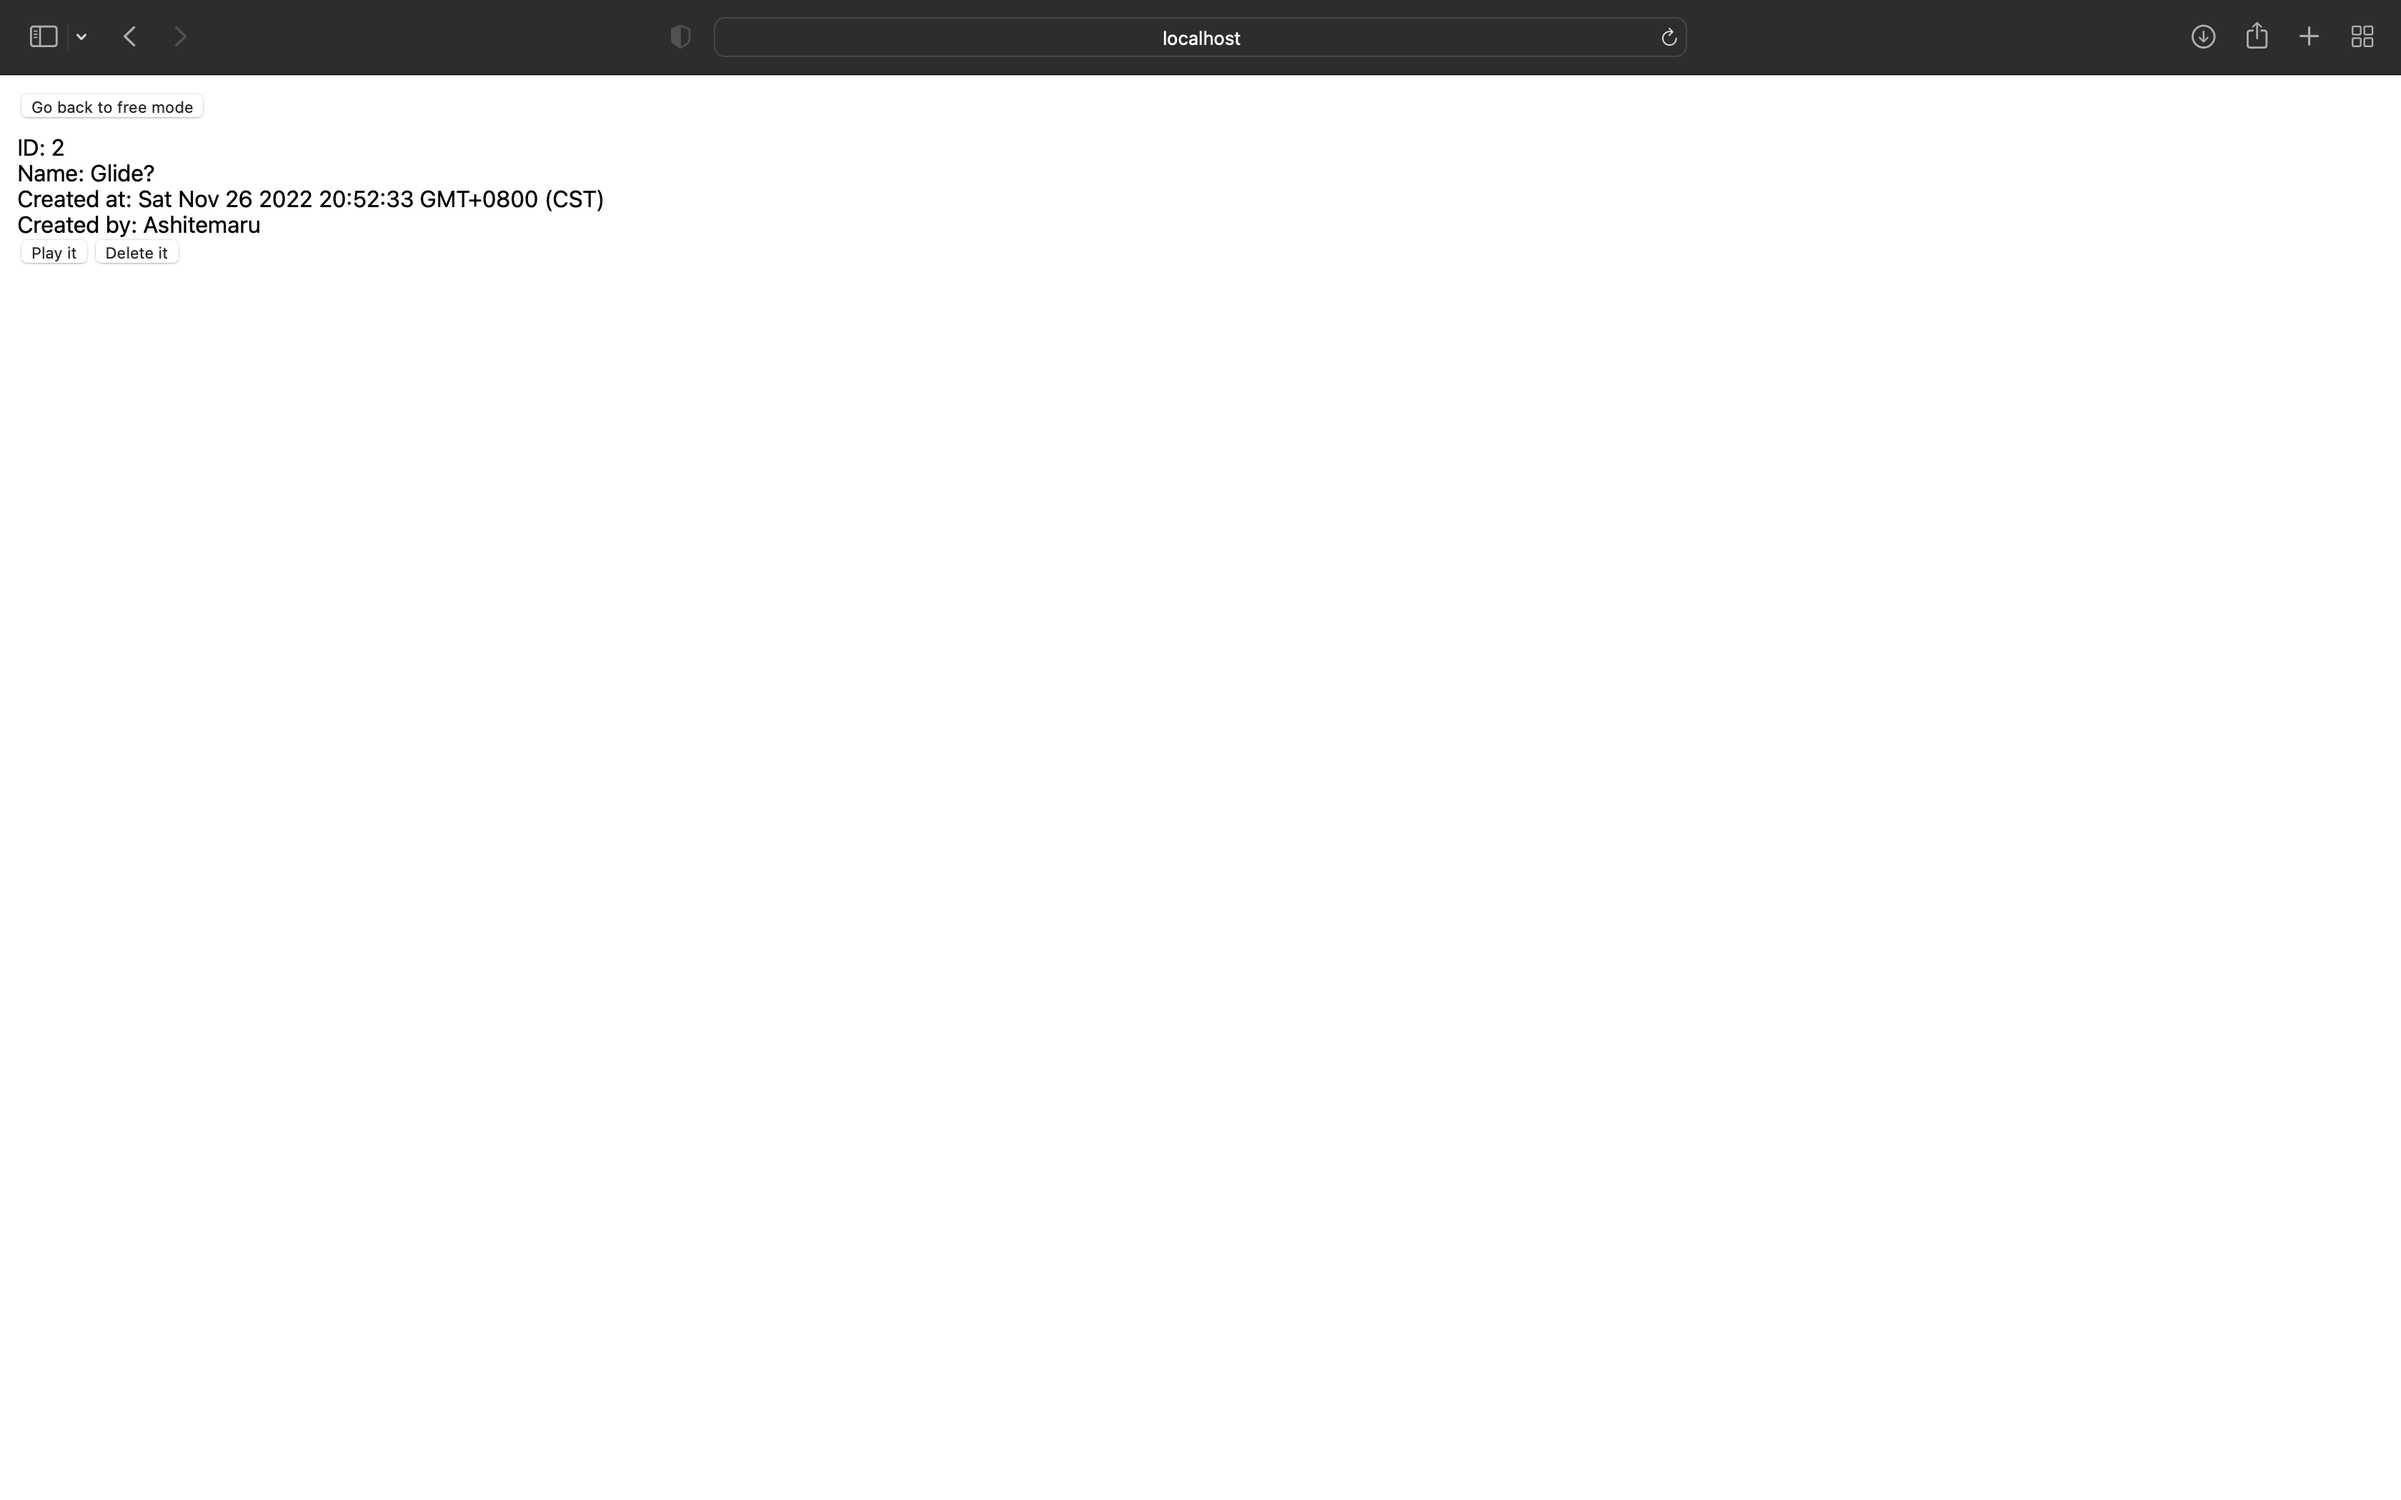
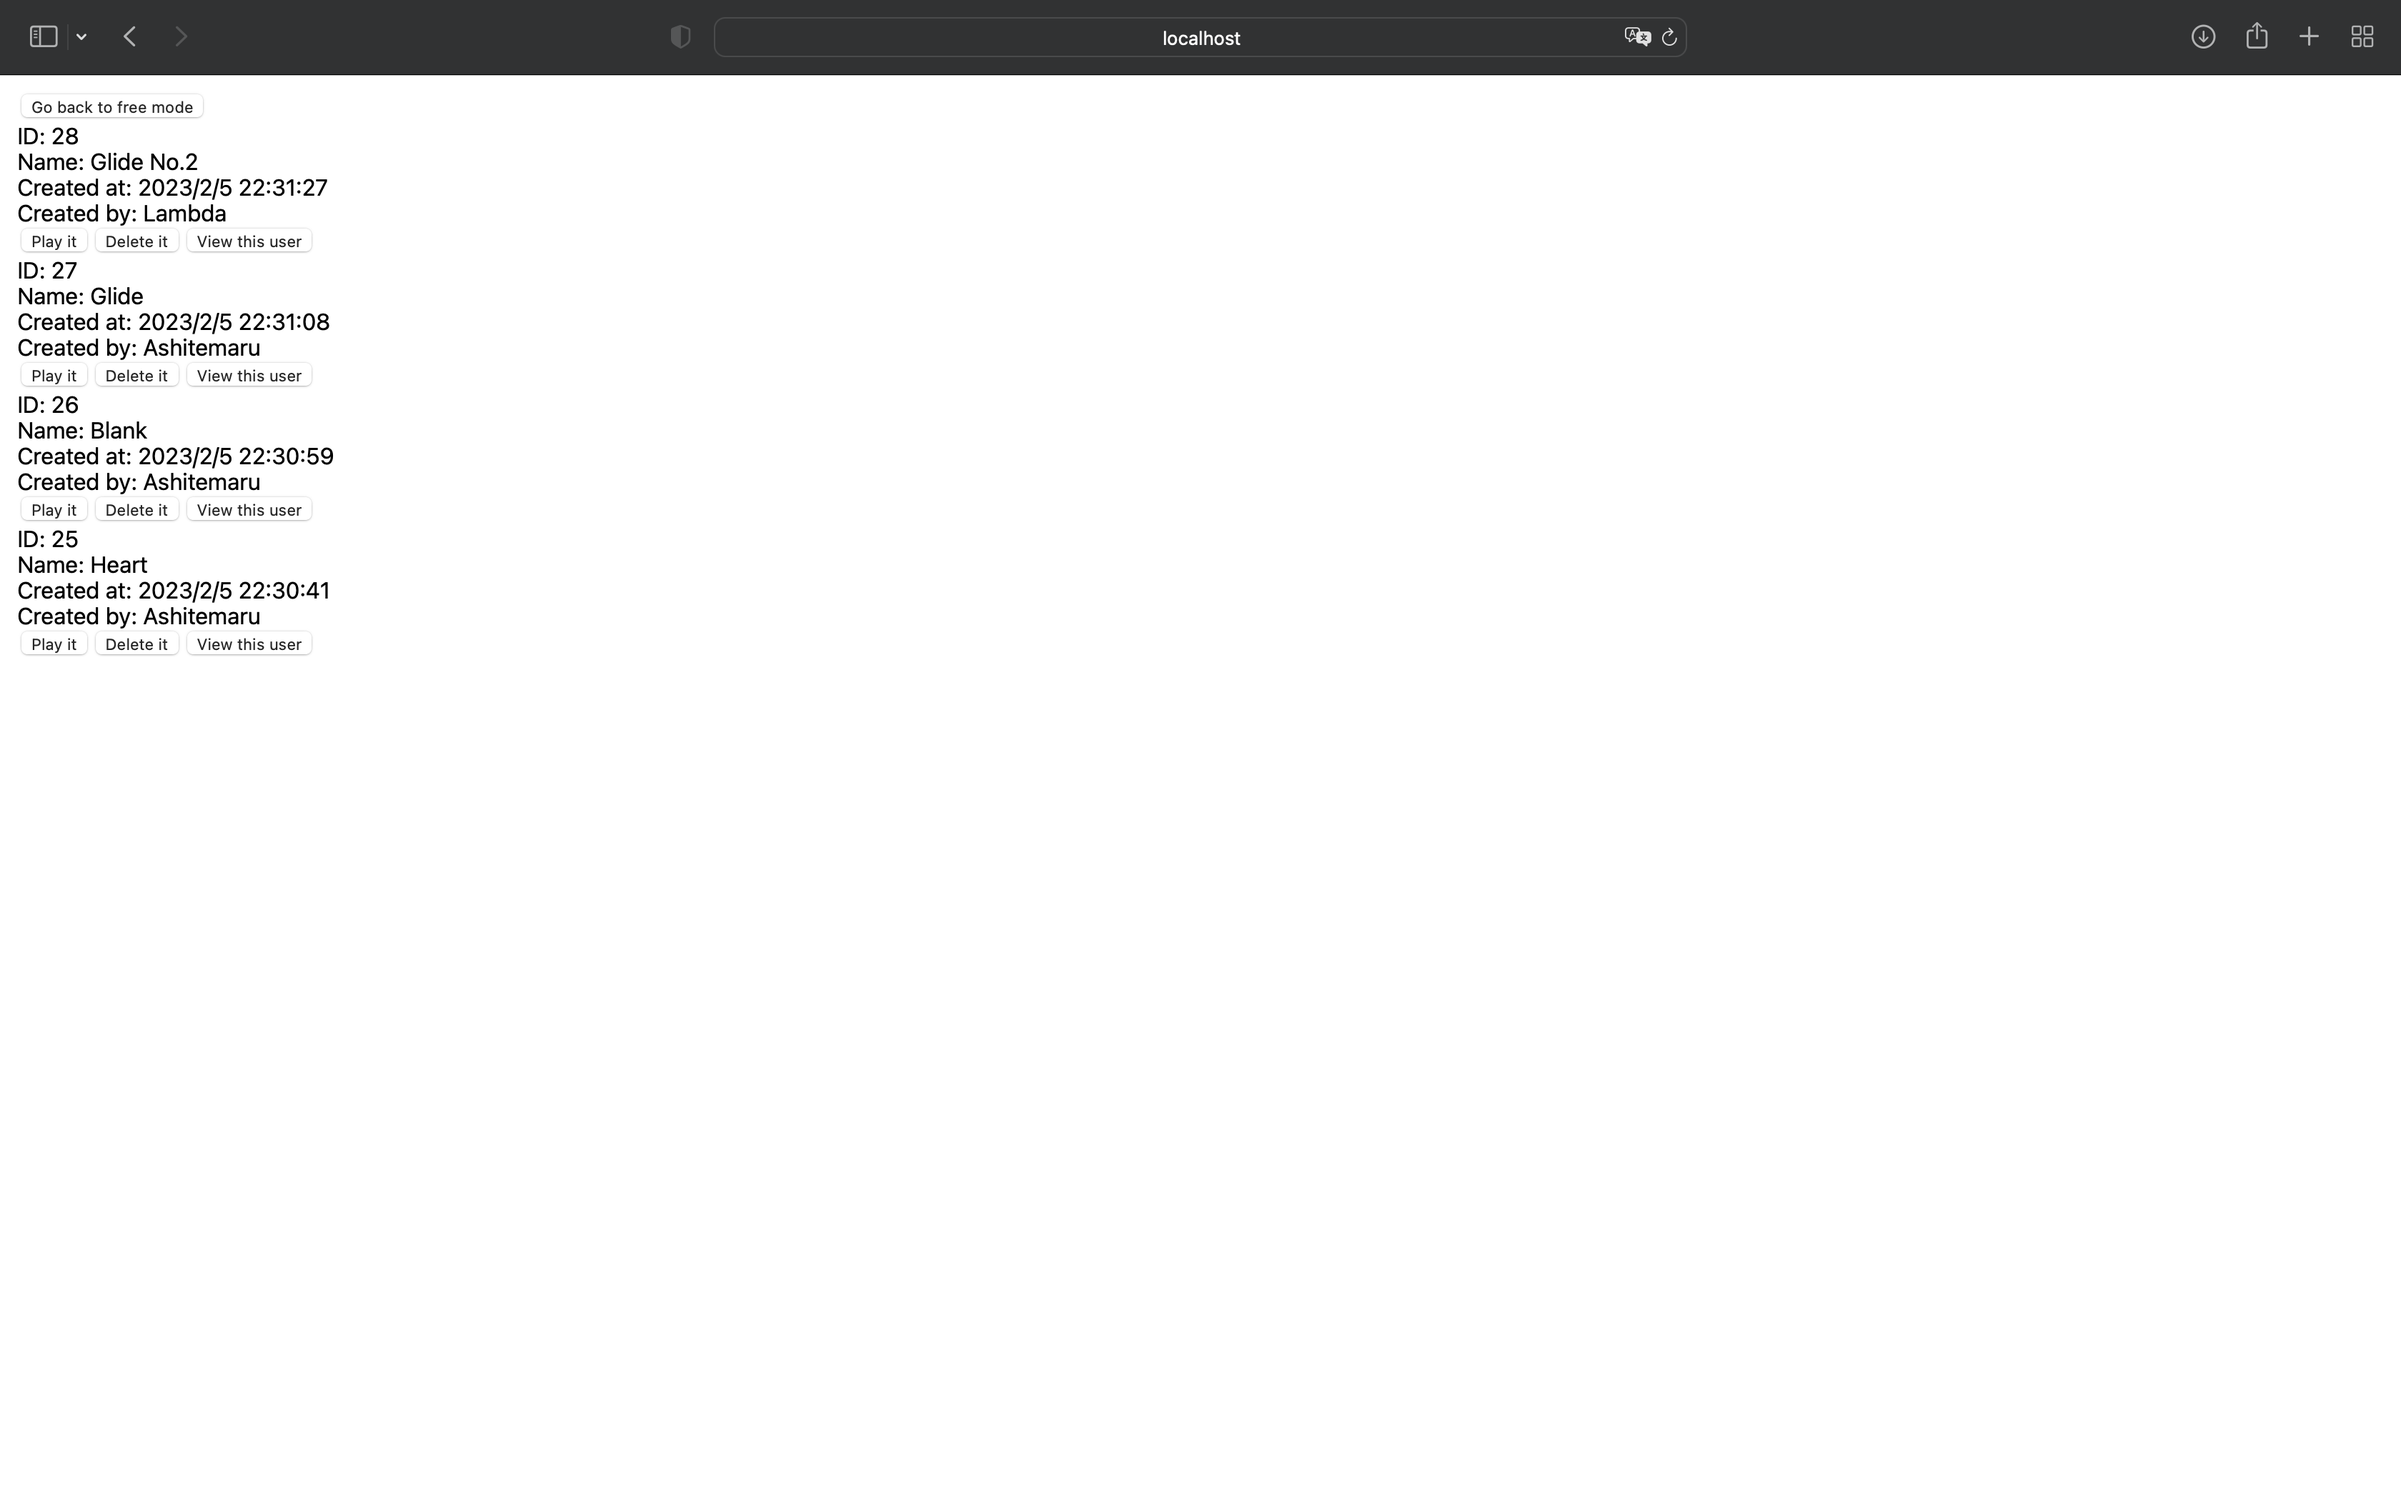
Feature: Frontend end

Changed region(s): [[0.0, 0.0929, 0.25, 0.4333]]

diff --git a/docs/handout/react/questions.md b/docs/handout/react/questions.md
@@ -1,0 +1,95 @@
+# 实验思考题题面
+
+## Problem 1 (2 pts)
+
+阅读下述代码：
+
+```typescript
+interface A {
+    foo: () => void;
+    foobar: () => void;
+}
+
+interface B {
+    foo: () => void;
+    barfoo: () => void;
+}
+
+const bar = (x: A | B): number => {
+    if (x instanceof A) {
+        return 0;
+    }
+
+    x.barfoo();
+    return 1;
+};
+```
+
+这段代码 TypeScript 是否会报编译错误？请说明原因。
+
+## Problem 2 (4 pts)
+
+在 Step 3 中我们提供了 `flipCell` 的一个错误实现 `badFlipCell`，请简述其错误的原因。
+
+## Problem 3 (6 pts)
+
+在 Next.js 框架中，`pages` 目录结构如下所示，各个 `.tsx` 文件使用 `export default` 方式导出的 React 组件写在括号内。请分别回答在浏览器访问下述地址的时候，浏览器所要渲染的组件名称。若没有符合条件的组件，回答 404 Not Found。
+
+```text
+pages
+├── _app.tsx (App)
+├── index.tsx (IndexScreen)
+├── basic.tsx (BasicScreen)
+├── info
+│   ├── index.tsx (InfoIndexScreen)
+│   └── [id]
+│       ├── abstract.tsx (InfoAbstractScreen)
+│       └── detail.tsx (InfoDetailScreen)
+└── settings.tsx (SettingsScreen)
+```
+
+地址列表：
+
+- `/`
+- `/_app`
+- `/my`
+- `/info/index`
+- `/info/5/detail`
+- `/info/index/abstract`
+
+## Problem 4 (8 pts)
+
+在小作业框架中，文件 `src/pages/[id].tsx` 内有这样一段代码：
+
+```typescript
+const router = useRouter();
+const query = router.query;
+
+useEffect(() => {
+    if (!router.isReady) {
+        return;
+    }
+
+    // Use router.query to fetch data
+}, [router, query]);
+```
+
+如果替换成下述形式：
+
+```typescript
+const router = useRouter();
+
+useEffect(() => {
+    // Use router.query to fetch data
+}, []);
+```
+
+会发现通过 `router.query.id` 获取到的动态路由参数是 `undefined`。你可以通过实践来确认这一点，在修改代码后，观察访问这一页面时后端所返回的错误提示。
+
+请解释这一现象。
+
+!!! note "Tips"
+
+    由于现代软件开发很难单人作战且极难不依赖于第三方，所以当问题发生在你所依赖的第三方或者框架的时候，你很难像在数据结构代码中 debug 那样，简单地回溯找到问题点。这个时候你需要适当地使用搜索引擎，适当地阅读第三方、框架的官方文档来寻找信息，这是软件工程的重要能力之一。
+
+    题面中所描述的现象是 Next.js 框架的一个 Advanced Feature，并且在官方文档中有详细介绍。本题即需要你说明 Next.js 的什么机制导致了这种现象。

diff --git a/docs/handout/react/tools.md b/docs/handout/react/tools.md
@@ -1,0 +1,31 @@
+# 可能有用的工具
+
+小作业由于规模、难度的限制，没有引入部分可能在大作业中有用的工具，这里简单介绍两个，并附上官方链接。
+
+## 组件库 AntDesign
+
+我们可以注意到，React 中类似 `<div />, <span />, <a />` 这些标签事实上就是 HTML 原生标签，这些标签会随着浏览器的实现变化而变化，从而就无法保证 UI 跨平台适配。再者，这些标签也仅仅是保证了功能性，在美观和交互上并不突出，甚至同一个网站内的风格都有可能有所差异（即界面设计中所谓的**设计语言不统一**）。
+
+为了解决这些问题，现代 Web 开发往往会使用组件库来实现一个美观、交互自然、跨平台统一、设计语言统一的 UI，其中最为常用的一个就是 [AntDesign](https://ant.design/index-cn)。
+
+使用组件库是简单的，和引用自定义组件完全一致。只需要通过包管理工具安装组件库并 import 到文件中后，直接引用其中的组件即可：
+
+```typescript
+const DemoScreen = () => {
+    return (
+        <Button onClick={() => {}}>
+            A test button!
+        </Button>
+    );
+};
+```
+
+这些组件往往有着更多可自定义的设置，这些就留给你阅读官方文档并探索了。
+
+## 全局状态管理 Redux
+
+如果你阅读过 React 官方文档或技能引导文档 React 部分，其都会提到 React 的数据传递一般仅限于父子组件之间。即，父组件通过传递 props 给子组件来控制子组件的表现，而父组件也可以传递一个回调函数给子组件，让子组件有能力修改父组件状态。
+
+然而对于大型的 Web 应用，这种仅限于父子间的数据传递显然不能满足要求，所以 Redux 出现了，其能够构建一个独立于整个组件结构的状态管理库，这些状态所有组件都可以读取和按照一定规则修改，这样就使得数据传递更为方便。
+
+Redux 官方文档在 [这里](https://cn.redux.js.org)，你可以通过 [官方教程](https://cn.redux.js.org/tutorials/essentials/part-1-overview-concepts) 入门。

diff --git a/docs/handout/react/net.md b/docs/handout/react/net.md
@@ -16,7 +16,7 @@
 
 完成本 Step 后，你的游戏记录列表的交互应当和下述 GIF 图所展示的类似：
 
-【TODO】
+![](../../static/react/step6-demo.gif)
 
 ### 代码说明
 
@@ -46,3 +46,16 @@
 函数组件中的网络请求往往需要使用 `useEffect` Hook 管理。`useEffect` Hook 的使用方法可以参考 [技能引导文档相关页面](https://docs.net9.org/frontend/react/function-component/#_3)。
 
 本小作业框架使用 Axios 完成网络请求。Axios 的一个最小化使用示例见 [Axios 官方文档相关页面](https://axios-http.com/docs/example)，该示例足以支撑完成本 Step。Axios 更深入的知识可以自行学习。
+
+!!! success "🎉"
+
+    这是你前端小作业的最后一个 Step 了，如果你已经完成了，我相信你已经充分掌握了 Next.js 的入门知识。
+
+    事实上这份前端小作业几乎可以作为大作业的起始框架。除了 Next.js 框架本身，其包含了：
+
+    - 代码风格检查与修正插件 ESLint，配置文件为 `.eslintrc.json`
+    - 单元测试框架 Jest
+
+    一些拓展知识则可以看后续的 Appendix 部分学习。
+    
+    希望你能够在大作业中运用好小作业中学到的知识，祝你好运。

diff --git a/docs/handout/requirement.md b/docs/handout/requirement.md
@@ -57,7 +57,7 @@
 
 - 该游戏记录名称
 - 创建该游戏记录的用户
-- 该游戏记录的创建时间
+- 该游戏记录的创建（或更新）时间
 
 而每一条用户的记录应当包含下述信息：
 
@@ -154,12 +154,22 @@ Replay Mode 下的页面也具有**自由状态**与**自动播放状态**。这
         - 删除按钮。点击后删除该记录
             - 如果删除成功，需要弹窗提示用户删除成功，并刷新整个记录列表页面
             - 如果中途出现任何错误，需要弹窗提示用户错误原因
+        - 查看用户按钮。点击后进入该记录作者的所有游戏记录页面
 
 如果记录列表为空，应当显示提示列表为空的提示文字。
 
 参考的实现为：
 
 ![](../static/list-eg.png)
+
+另外，需要一个显示指定用户所有游戏记录的页面，其大体设计要求与上述一致，页面上需要增加下述内容：
+
+- 页面顶部显示该用户的用户名
+- 页面顶部增加一个回到整体记录列表页面的按钮、一个删除该用户所有游戏记录的按钮
+
+参考的实现为：
+
+![](../static/list-user-eg.png)
 
 !!! note "More?"
 

diff --git a/docs/handout/index.md b/docs/handout/index.md
@@ -1,3 +1,19 @@
 # 课程小作业
 
-本次课程小作业分为 CI/CD、后端（Django）、前端（Next.js）三部分，目标是帮助大家熟悉软件开发流程与常用工具。
+本次课程小作业分为 CI/CD、后端（Django）、前端（Next.js）三部分，目标是帮助大家熟悉软件开发流程与常用工具，要求大家在两周内完成这三个部分。
+
+我们推荐按照下述顺序完成本次小作业：
+
+- 阅读小作业需求和 API 文档
+- 完成小作业后端并部署
+- 完成小作业前端并部署
+- 完成 CI/CD、前端小作业思考题
+
+不过你可以按照任何顺序完成作业，我们只会按照文档中所述方式检查并评分。
+
+## 提交方式
+
+你需要在完成小作业后，在截止时间前在网络学堂上提交下述内容：
+
+- 文本区域为两行链接，第一行是前端 Gitlab Repo 地址，第二行则是后端 Gitlab Repo 地址
+- 附件中提交 CI/CD、前端小作业思考题，建议合并为一个 PDF 提交

diff --git a/docs/handout/react/timer.md b/docs/handout/react/timer.md
@@ -30,7 +30,7 @@
 
 本 Step 采用人工评分。我们仅会**在通过 CI 检查的基础上**查看最后一次部署后游戏主界面是否满足：
 
-- （2 分）在自由状态通过点击棋盘设置好某一起始状态后点击 Start auto play 按钮能够进入自动播放状态，棋盘每次自动演变的间隔需要在 1 秒内
+- （2 分）在自由状态通过点击棋盘设置好某一起始状态后点击 Start auto play 按钮能够进入自动播放状态，棋盘每次自动演变的间隔需要在 1 秒内（需求文档要求为 300 ms，检查时因无法精确计时故只要约在 1 秒内即可）
 - （2 分）在自动播放状态下，点击棋盘，其不应当响应点击事件
 - （1 分）在自动播放状态下，点击 Stop auto play 按钮能够退回自由状态，自动演变停止，点击棋盘，其响应点击事件
 

diff --git a/docs/handout/api.md b/docs/handout/api.md
@@ -8,9 +8,7 @@
     
     小作业为了减轻作业压力，不需要大家自行设计 API，只需要面对我们给出的 API 文档实现前后端即可。
     
-    这里提供部分设计 API 文档的时候可以参考的资料：
-    
-    【TODO：参考资料】
+    由于小作业规模较小，故我们直接使用文字说明。对于较大规模的应用，可以使用一些工具辅助管理 API 文档，如 [Apifox](https://www.apifox.cn)。
 
 ## URL `/boards`
 
@@ -300,7 +298,7 @@
 
 
 
-## URL `/user/<userName>`
+## URL `/user/{userName}`
 
 该 API 用于操作存储在数据库中的玩家，包括获取玩家的所有游戏记录，删除玩家的所有游戏记录。
 

diff --git a/docs/handout/react/index.md b/docs/handout/react/index.md
@@ -50,7 +50,9 @@
 
 ## 参考资料
 
-虽然每个 Step 都提供了知识讲解部分作简单介绍，但限于篇幅并不能深入讲解。为了更好地掌握，我们依然建议你通过完整的文档成体系地学习 React (Next.js) 框架：
+!!! warning "虽然给你提供了知识讲解..."
+
+    虽然每个 Step 都提供了知识讲解部分作简单介绍，但限于篇幅并不能深入讲解。为了更好地掌握，我们依然建议你通过完整的文档成体系地学习 React (Next.js) 框架，文档见下。
 
 - React 框架官方中文文档 <https://react.docschina.org/>
 - 计算机系学生科协技能引导文档 <https://docs.net9.org/frontend/react/>

diff --git a/docs/handout/react/router.md b/docs/handout/react/router.md
@@ -22,7 +22,7 @@
 
 完成本 Step 后，你的游戏记录列表的交互应当和下述 GIF 图所展示的类似：
 
-【TODO】
+![](../../static/react/step5-demo.gif)
 
 ### 实验提示
 

diff --git a/docs/handout/react/ci.md b/docs/handout/react/ci.md
@@ -1,0 +1,1 @@
+# CI 检查项列表
